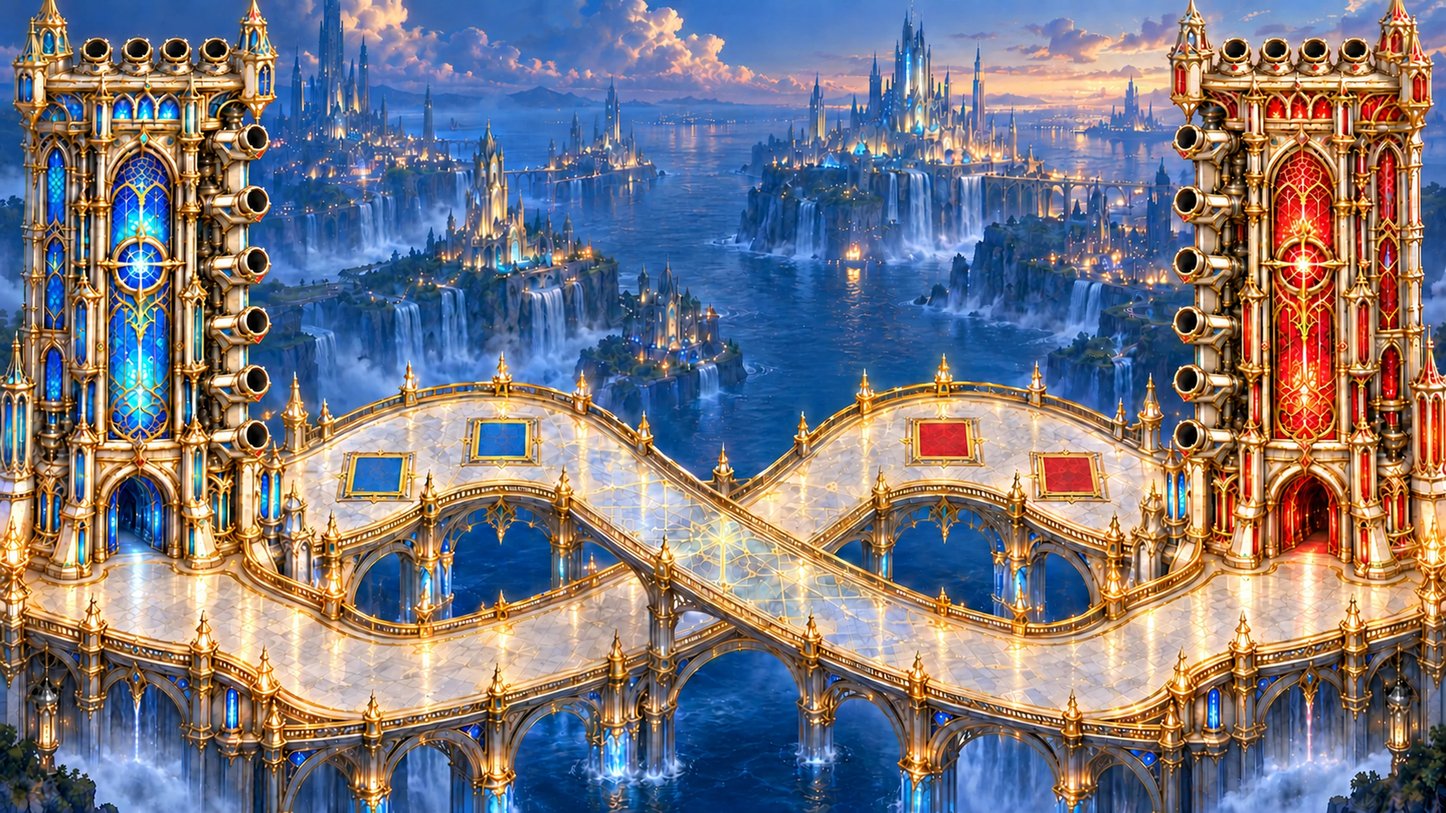
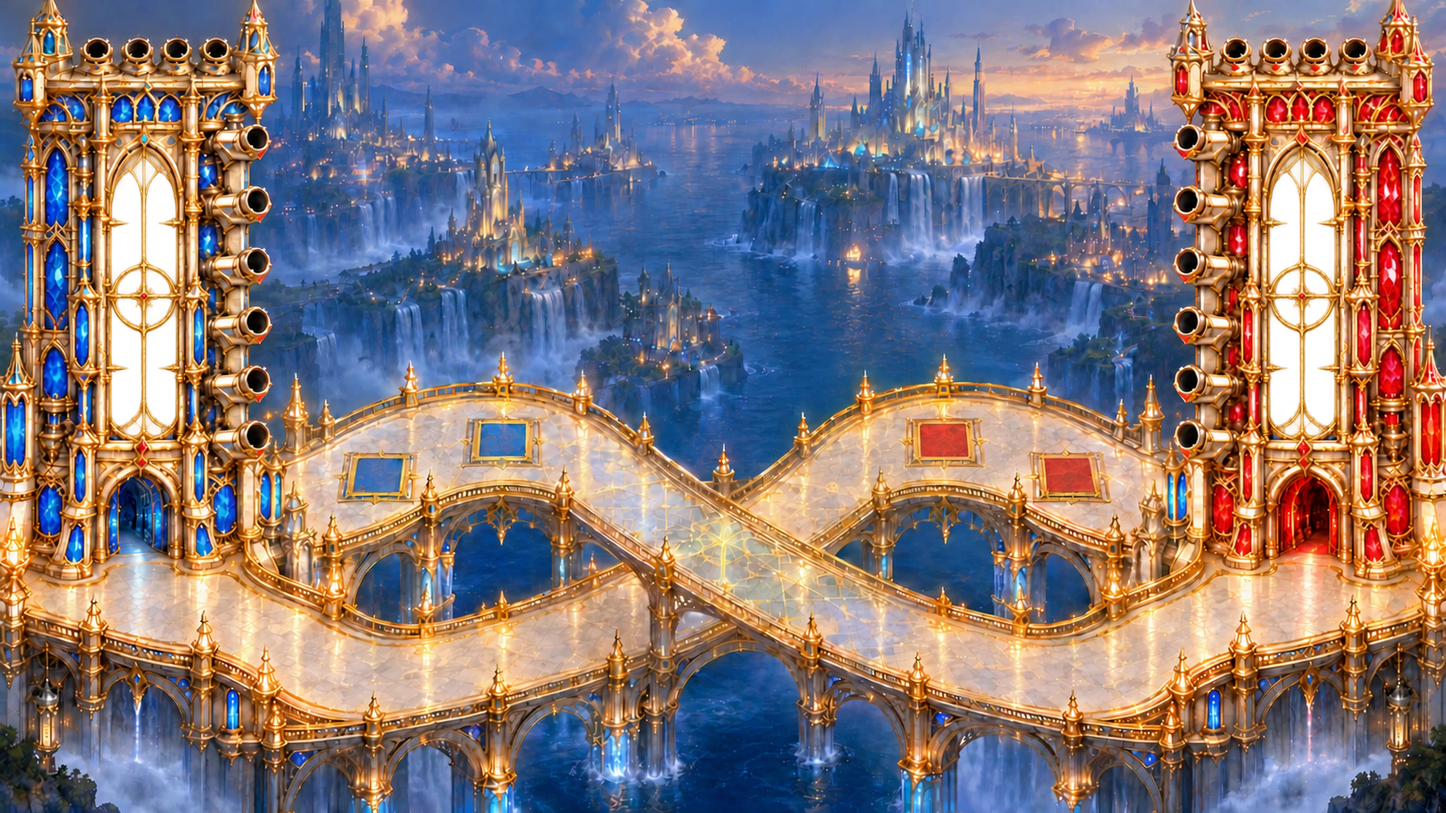
Keep health windows: glowing glass liquid meters behind the new alpha background
Claude-Session: https://claude.ai/code/session_01VAfnq769u6JX85bNNnzEvq

diff --git a/index.html b/index.html
@@ -1510,10 +1510,10 @@ function cpuHard(P, side) {
 let k = 1;
 // render resolution of the canvas. 4K is the default; lower settings also load a smaller background texture
 const RES = {
-  '4k': {w: 3840, h: 2160, name: '4K · 3840 × 2160', bg: 'art/battlefield/bg_4k.webp?v=2'},
-  '1440': {w: 2560, h: 1440, name: '1440p · 2560 × 1440', bg: 'art/battlefield/bg_1440.webp?v=2'},
-  '1080': {w: 1920, h: 1080, name: '1080p · 1920 × 1080', bg: 'art/battlefield/bg_1080.webp?v=2'},
-  '720': {w: 1280, h: 720, name: '720p · 1280 × 720', bg: 'art/battlefield/bg_720.webp?v=2'}
+  '4k': {w: 3840, h: 2160, name: '4K · 3840 × 2160', bg: 'art/battlefield/bg_4k.webp?v=3'},
+  '1440': {w: 2560, h: 1440, name: '1440p · 2560 × 1440', bg: 'art/battlefield/bg_1440.webp?v=3'},
+  '1080': {w: 1920, h: 1080, name: '1080p · 1920 × 1080', bg: 'art/battlefield/bg_1080.webp?v=3'},
+  '720': {w: 1280, h: 720, name: '720p · 1280 × 720', bg: 'art/battlefield/bg_720.webp?v=3'}
 };
 const VIDEO = {shake: true, low: false, res: '4k', adapt: true};
 try { const v = JSON.parse(localStorage.getItem('bk-video') || 'null'); if (v && typeof v === 'object') { VIDEO.shake = v.shake !== false; VIDEO.low = !!v.low; VIDEO.adapt = v.adapt !== false; if (v.res === 'auto' || RES[v.res]) VIDEO.res = v.res; } } catch (e) {}
@@ -2555,7 +2555,9 @@ function bgImage() {
   // the main-menu backdrop keeps its original painting; planning and battle use the four-roof / six-side keep art
   if (!(vk in BGS)) BGS[vk] = loadImg(es >= 0 ? RES[key].bg.replace('/bg_', '/bg_' + (es ? 'red' : 'blue') + '_') : menu ? RES[key].bg.replace('/bg_', '/bg_menu_') : RES[key].bg);
   const im = BGS[vk];
-  if (artOk(im)) { BGS.last = im; return im; }
+  // newOn: the match backdrop (with its transparent keep windows) is what is on screen, including while a new resolution loads over it
+  if (artOk(im)) { BGS.last = im; BGS.lastNew = vk === key; BGS.newOn = BGS.lastNew; return im; }
+  BGS.newOn = !!(artOk(BGS.last) && BGS.lastNew);
   return artOk(BGS.last) ? BGS.last : null;   // keep the previous texture on screen while a new one loads
 }
 const terrImg = (kind, side) => { const im = TART[kind][side]; return artOk(im) ? im : null; };
@@ -2592,7 +2594,7 @@ function bgLayer() {   // the painted battlefield with its light tint (clipped b
     BGC.cv.width = cv.width; BGC.cv.height = cv.height;
     const c = BGC.cv.getContext('2d');
     c.drawImage(BG, 0, 0, cv.width, cv.height);
-    c.fillStyle = 'rgba(3,4,22,' + tint + ')'; c.fillRect(0, 0, cv.width, cv.height);
+    c.globalCompositeOperation = 'source-atop'; c.fillStyle = 'rgba(3,4,22,' + tint + ')'; c.fillRect(0, 0, cv.width, cv.height); c.globalCompositeOperation = 'source-over';
     BGC.src = BG; BGC.w = cv.width; BGC.h = cv.height; BGC.tint = tint;
   }
   ctx.drawImage(BGC.cv, 0, 0, W, H);
@@ -2615,8 +2617,77 @@ function drawFlyoverMask() {
   bgLayer();
   ctx.restore();
 }
+
+/* ---------- keep health windows: the painted keeps have transparent pointed-arch windows; glowing glass liquid behind them is the keep's HP meter ---------- */
+const KW = {top: 399.4048884165781, bottom: 1170.6695005313497, rects: [[271, 399, 221, 772], [3348, 399, 221, 772]], art: 3840};
+const KW_COL = [
+  {deep: '#072c8a', mid: '#37b9ff', hi: '#d9f9ff', glint: '190,240,255', back: '#03071a', tint: '30,90,200'},
+  {deep: '#6e0a1a', mid: '#ff5642', hi: '#ffe0c8', glint: '255,214,190', back: '#14030a', tint: '200,40,40'}];
+function drawKeepWindows() {
+  bgImage(); if (!BGS.newOn) return;
+  const t = reduced ? 0 : S.t, k = W / KW.art;
+  for (let s = 0; s < 2; s++) {
+    const P = S.p[s], C = KW_COL[s], [rx, ry, rw, rh] = KW.rects[s];
+    const hp = P.keep, max = KEEP_HP, p = (max > 0 && isFinite(hp) && isFinite(max)) ? clamp(hp / max, 0, 1) : 0;
+    const sy = KW.bottom - p * (KW.bottom - KW.top), flash = clamp(S.keepFlash[s] || 0, 0, 0.6) / 0.6;
+    ctx.save(); ctx.scale(k, k);
+    ctx.beginPath(); ctx.rect(rx, ry, rw, rh); ctx.clip();
+    // unlit glass backing, always present
+    let g = ctx.createLinearGradient(0, ry, 0, ry + rh); g.addColorStop(0, C.back); g.addColorStop(1, '#010206');
+    ctx.fillStyle = g; ctx.fillRect(rx, ry, rw, rh);
+    ctx.fillStyle = 'rgba(' + C.tint + ',.06)'; for (let i = 0; i < 4; i++) ctx.fillRect(rx + 22 + i * 52, ry, 8, rh);
+    if (p > 0) {
+      const wv = x => reduced ? 0 : Math.sin(x * 0.07 + t * 2.1 + s) * 3.2 + Math.sin(x * 0.13 - t * 1.4) * 1.8;
+      const surf = x => sy + wv(x);
+      ctx.beginPath(); ctx.moveTo(rx, ry + rh + 2);
+      for (let x = 0; x <= rw; x += 6) ctx.lineTo(rx + x, surf(rx + x));
+      ctx.lineTo(rx + rw, ry + rh + 2); ctx.closePath();
+      g = ctx.createLinearGradient(0, sy - 6, 0, ry + rh);
+      g.addColorStop(0, C.hi); g.addColorStop(0.07, C.mid); g.addColorStop(0.55, C.mid); g.addColorStop(1, C.deep);
+      ctx.globalAlpha = 0.94 - (p < 0.25 && !reduced ? 0.12 * Math.sin(t * 7) * (1 - p * 4) : 0); ctx.fillStyle = g; ctx.fill(); ctx.globalAlpha = 1;
+      ctx.save(); ctx.clip();   // everything below stays inside the liquid
+      ctx.globalCompositeOperation = 'lighter';
+      // slow caustic bands drifting through the glass
+      for (let i = 0; i < 3; i++) {
+        const cx = rx + ((t * (10 + i * 4) + i * 77) % (rw + 120)) - 60;
+        const cg = ctx.createLinearGradient(cx - 26, 0, cx + 26, 0);
+        cg.addColorStop(0, 'rgba(' + C.glint + ',0)'); cg.addColorStop(0.5, 'rgba(' + C.glint + ',.13)'); cg.addColorStop(1, 'rgba(' + C.glint + ',0)');
+        ctx.fillStyle = cg; ctx.fillRect(cx - 26, sy - 8, 52, ry + rh - sy + 10);
+      }
+      // glow band under the meniscus
+      const gg = ctx.createLinearGradient(0, sy, 0, sy + 70); gg.addColorStop(0, 'rgba(' + C.glint + ',.42)'); gg.addColorStop(1, 'rgba(' + C.glint + ',0)');
+      ctx.fillStyle = gg; ctx.fillRect(rx, sy - 6, rw, 76);
+      // glistening motes and rising bubbles
+      for (let i = 0; i < 24; i++) {
+        const ph = i * 0.6180339 % 1, lx = rx + 12 + ((i * 53 + s * 17) % (rw - 24)), span = ry + rh - sy;
+        const yy = ry + rh - ((ph * span + (reduced ? 0 : t * (18 + (i % 5) * 7))) % Math.max(span, 1));
+        const tw = 0.5 + 0.5 * Math.sin(t * 3 + i * 1.9), r = 2.6 + 4.5 * tw;
+        ctx.fillStyle = 'rgba(' + C.glint + ',' + (0.35 + 0.5 * tw) + ')';
+        ctx.beginPath(); ctx.moveTo(lx, yy - r * 2); ctx.lineTo(lx + r * 0.5, yy - r * 0.5); ctx.lineTo(lx + r * 2, yy); ctx.lineTo(lx + r * 0.5, yy + r * 0.5); ctx.lineTo(lx, yy + r * 2); ctx.lineTo(lx - r * 0.5, yy + r * 0.5); ctx.lineTo(lx - r * 2, yy); ctx.lineTo(lx - r * 0.5, yy - r * 0.5); ctx.closePath(); ctx.fill();
+      }
+      // inner luminosity: the liquid glows brightest down its core
+      const lum = ctx.createLinearGradient(rx, 0, rx + rw, 0); lum.addColorStop(0, 'rgba(' + C.tint + ',0)'); lum.addColorStop(0.5, 'rgba(' + C.glint + ',' + (0.22 + 0.06 * Math.sin(t * 1.6)) + ')'); lum.addColorStop(1, 'rgba(' + C.tint + ',0)');
+      ctx.fillStyle = lum; ctx.fillRect(rx, sy - 8, rw, ry + rh - sy + 10);
+      // vertical gloss streak, the glass catching the light
+      const gl = ctx.createLinearGradient(rx + rw * 0.18, 0, rx + rw * 0.42, 0);
+      gl.addColorStop(0, 'rgba(255,255,255,0)'); gl.addColorStop(0.5, 'rgba(255,255,255,.16)'); gl.addColorStop(1, 'rgba(255,255,255,0)');
+      ctx.fillStyle = gl; ctx.fillRect(rx + rw * 0.18, sy, rw * 0.24, ry + rh - sy);
+      // shield: a frosted shimmer through the whole column
+      if (P.shield > 0) { const a = Math.min(0.42, 0.14 + 0.5 * P.shield / KEEP_HP) * (0.8 + 0.2 * Math.sin(t * 4)); ctx.fillStyle = 'rgba(235,248,255,' + a + ')'; ctx.fillRect(rx, sy - 8, rw, ry + rh - sy + 10); }
+      // a hit flashes the liquid
+      if (flash > 0) { ctx.fillStyle = 'rgba(255,255,255,' + 0.55 * flash + ')'; ctx.fillRect(rx, sy - 8, rw, ry + rh - sy + 10); }
+      ctx.globalCompositeOperation = 'source-over';
+      ctx.restore();
+      // the meniscus line, bright where the surface is
+      ctx.beginPath(); for (let x = 0; x <= rw; x += 6) { const yy = surf(rx + x); x ? ctx.lineTo(rx + x, yy) : ctx.moveTo(rx + x, yy); }
+      ctx.lineWidth = 4; ctx.strokeStyle = 'rgba(' + C.glint + ',.95)'; ctx.shadowColor = 'rgb(' + C.glint + ')'; ctx.shadowBlur = 14; ctx.stroke(); ctx.shadowBlur = 0;
+    }
+    ctx.restore();
+  }
+}
 function drawScene() {
   const kk = S.kick, E = S.energy, t = S.t;
+  drawKeepWindows();
   const bgOn = bgLayer();
   if (!bgOn) {
     const g = ctx.createLinearGradient(0, 0, 0, H);
@@ -3603,11 +3674,9 @@ function drawKeepBars() {
   for (let s = 0; s < 2; s++) {
     const P = S.p[s], y = 27, w = 200, edge = (W / 2) / S.cam.z;
     const cx = s ? Math.min(W - 430, S.cam.x + edge - w / 2 - 12) : Math.max(430, S.cam.x - edge + w / 2 + 12);
-    ctx.fillStyle = 'rgba(0,0,0,.8)'; ctx.fillRect(cx - w / 2 - 2, y - 2, w + 4, 18);
-    ctx.fillStyle = S.keepFlash[s] > 0.05 ? '#ff5a5a' : 'rgb(' + SIDES[s].rgb + ')'; ctx.fillRect(cx - w / 2, y, w * clamp(P.keep / KEEP_HP, 0, 1), 14);
-    if (P.shield > 0) { ctx.fillStyle = 'rgba(255,255,255,.75)'; ctx.fillRect(cx - w / 2, y, w * clamp(P.shield / KEEP_HP, 0, 1), 4); }
+    if (!BGS.newOn) { ctx.fillStyle = 'rgba(0,0,0,.8)'; ctx.fillRect(cx - w / 2 - 2, y - 2, w + 4, 18); ctx.fillStyle = S.keepFlash[s] > 0.05 ? '#ff5a5a' : 'rgb(' + SIDES[s].rgb + ')'; ctx.fillRect(cx - w / 2, y, w * clamp(P.keep / KEEP_HP, 0, 1), 14); }   // the keep window is the meter on the new backdrop
     ctx.font = '800 14px "Chakra Petch", sans-serif'; ctx.textAlign = 'center'; ctx.fillStyle = '#fff1c9';
-    otext('KEEP ' + Math.ceil(Math.max(0, P.keep)) + (P.shield > 0 ? ' + ' + Math.ceil(P.shield) + ' SHIELD' : '') + ' · ' + P.roundKills + ' KILLS', cx, y - 7, 5);
+    otext('KEEP ' + Math.ceil(Math.max(0, P.keep)) + (P.shield > 0 ? ' + ' + Math.ceil(P.shield) + ' SHIELD' : '') + ' · ' + P.roundKills + ' KILLS', cx, BGS.newOn ? y + 6 : y - 7, 5);
   }
 }
 // Trait bonuses are no longer drawn on the battlefield: hovering a tower lists them in a tooltip instead.

diff --git a/BATTLEFIELD.md b/BATTLEFIELD.md
@@ -55,3 +55,6 @@ Found with a fixed-board lab (same saved round, swap blue's board, replay) plus 
 
 ## Barrier nerf
 Barrier HP 400 -> 240, cost 6 -> 7 gold, and a damaged barrier now mends only half its damage between rounds (it was fully repaired free, including at combat start). Lab (40 fights per cell, +/-8 pts noise): at round 9 the slow-field + near-barrier combo gained +30 win points over no terrain before the change and about +17 after; a lone near-gate barrier keeps roughly +100 keep HP.
+
+## Keep health windows
+`bg_{4k,1440,1080,720}.webp` are now RGBA (from `Battlefield_Health_Window_Marks_4K.png`): each keep has a transparent pointed-arch window. `drawKeepWindows()` paints a dark glass backing plus glowing faction liquid (keep HP / `KEEP_HP`, drains top to bottom, calibration in `art/battlefield/keep_health_voids.json`) under the background, so the gold tracery stays in front. The old keep bar above each keep is dropped on this backdrop; its text label stays. The menu (`bg_menu_*`) and end-screen (`bg_red_*`, `bg_blue_*`) paintings are opaque and draw no windows. Backgrounds are cache-busted with `?v=3`.
